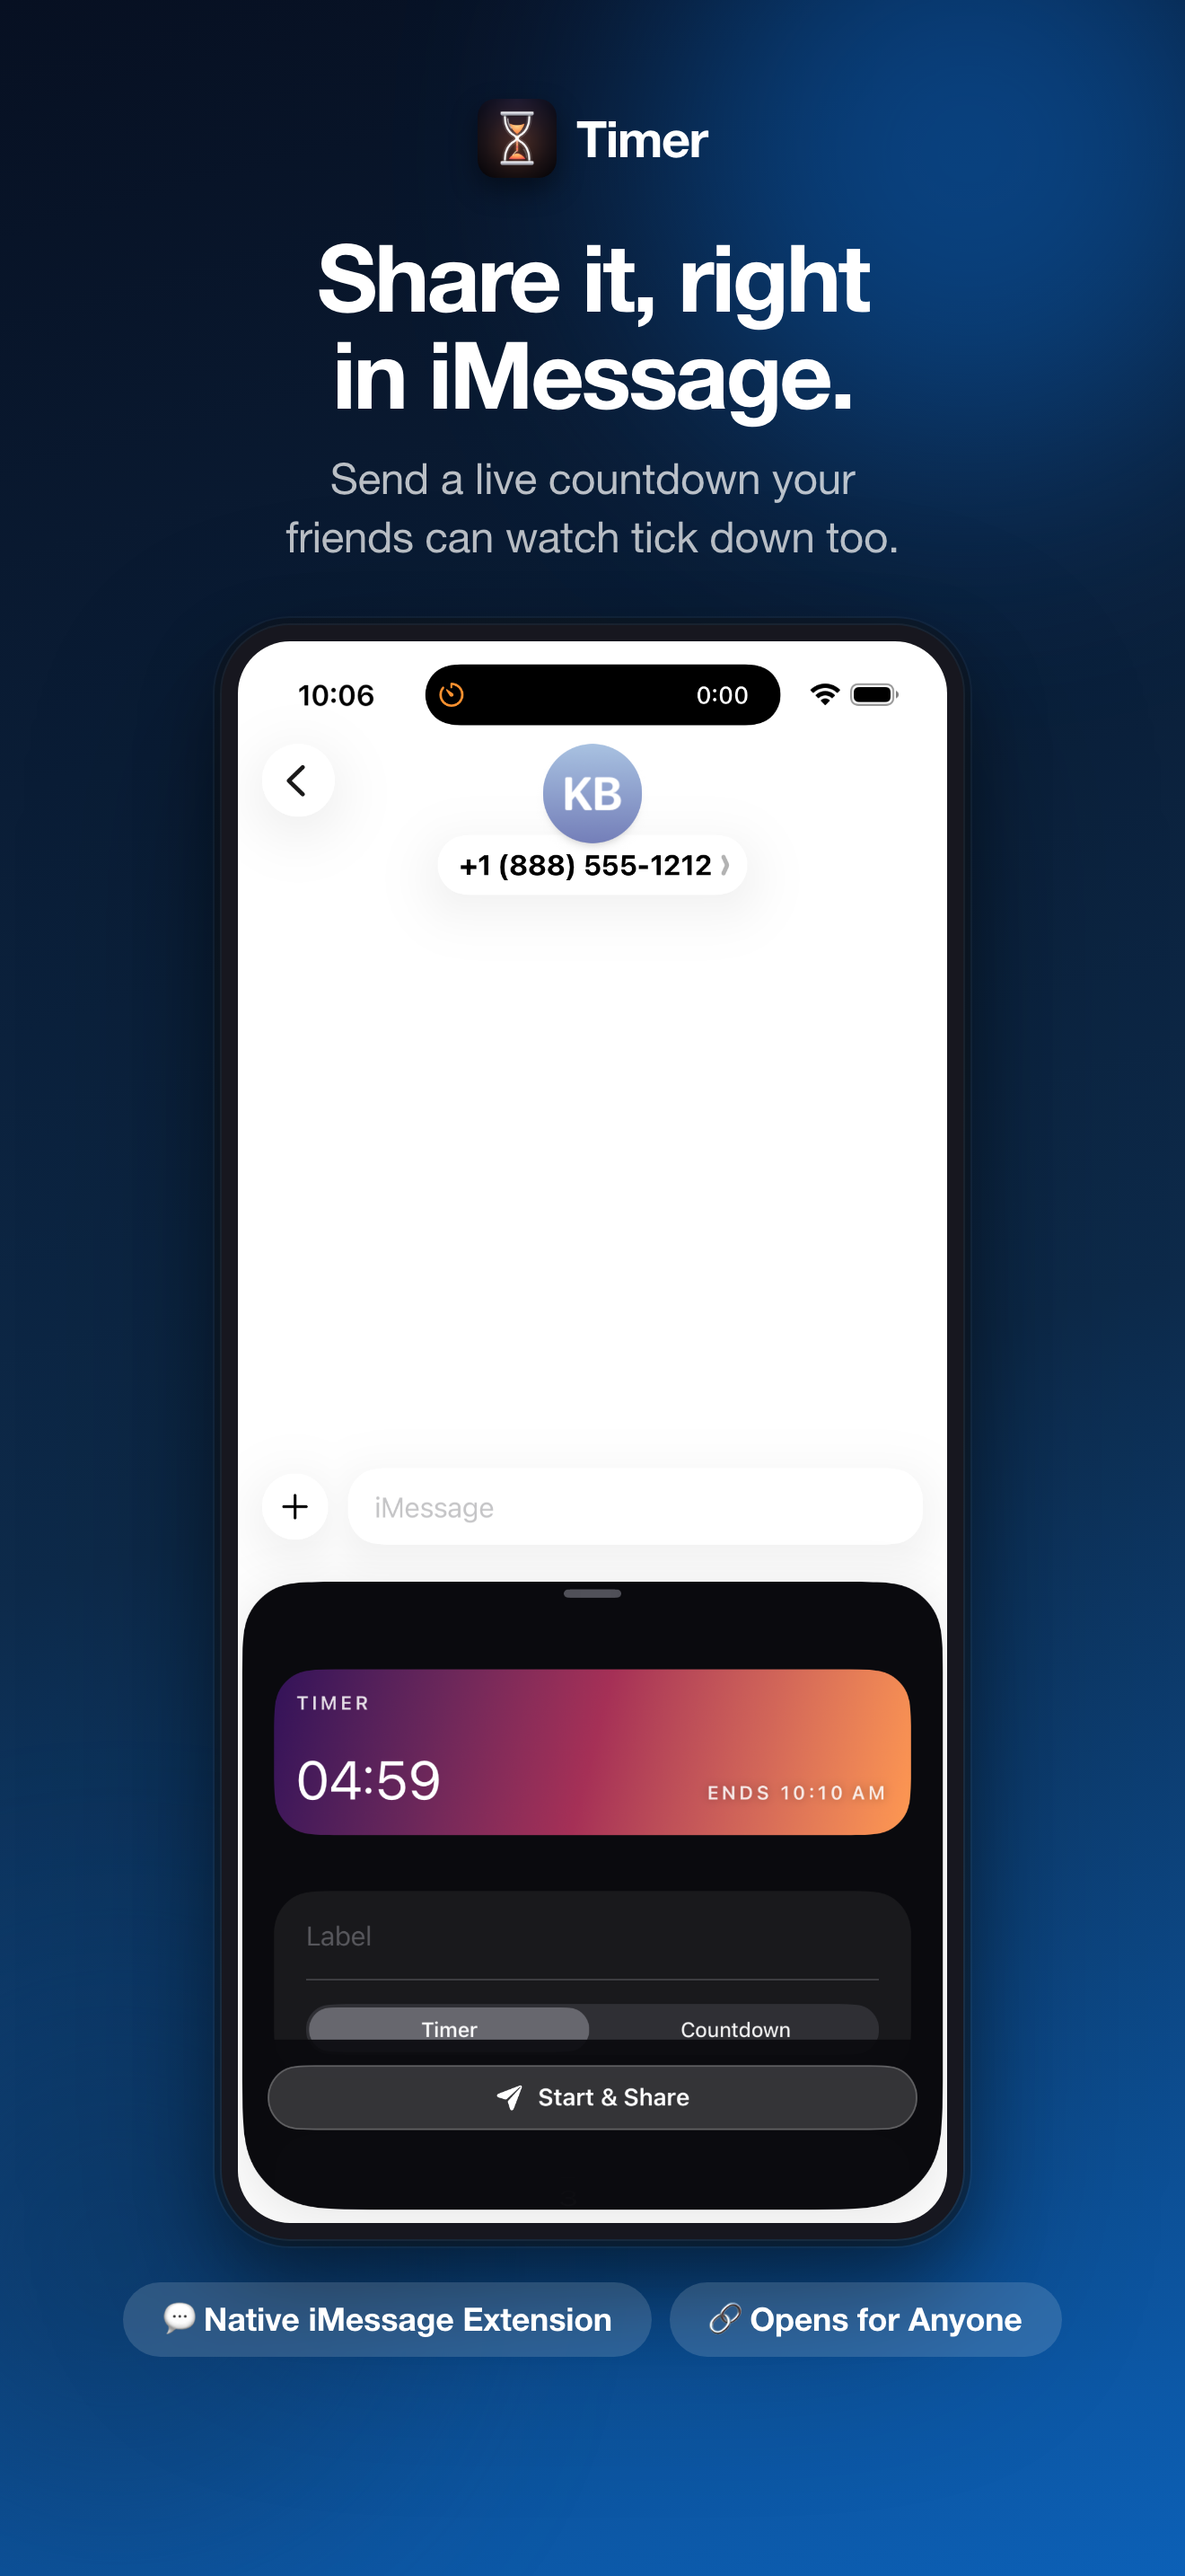
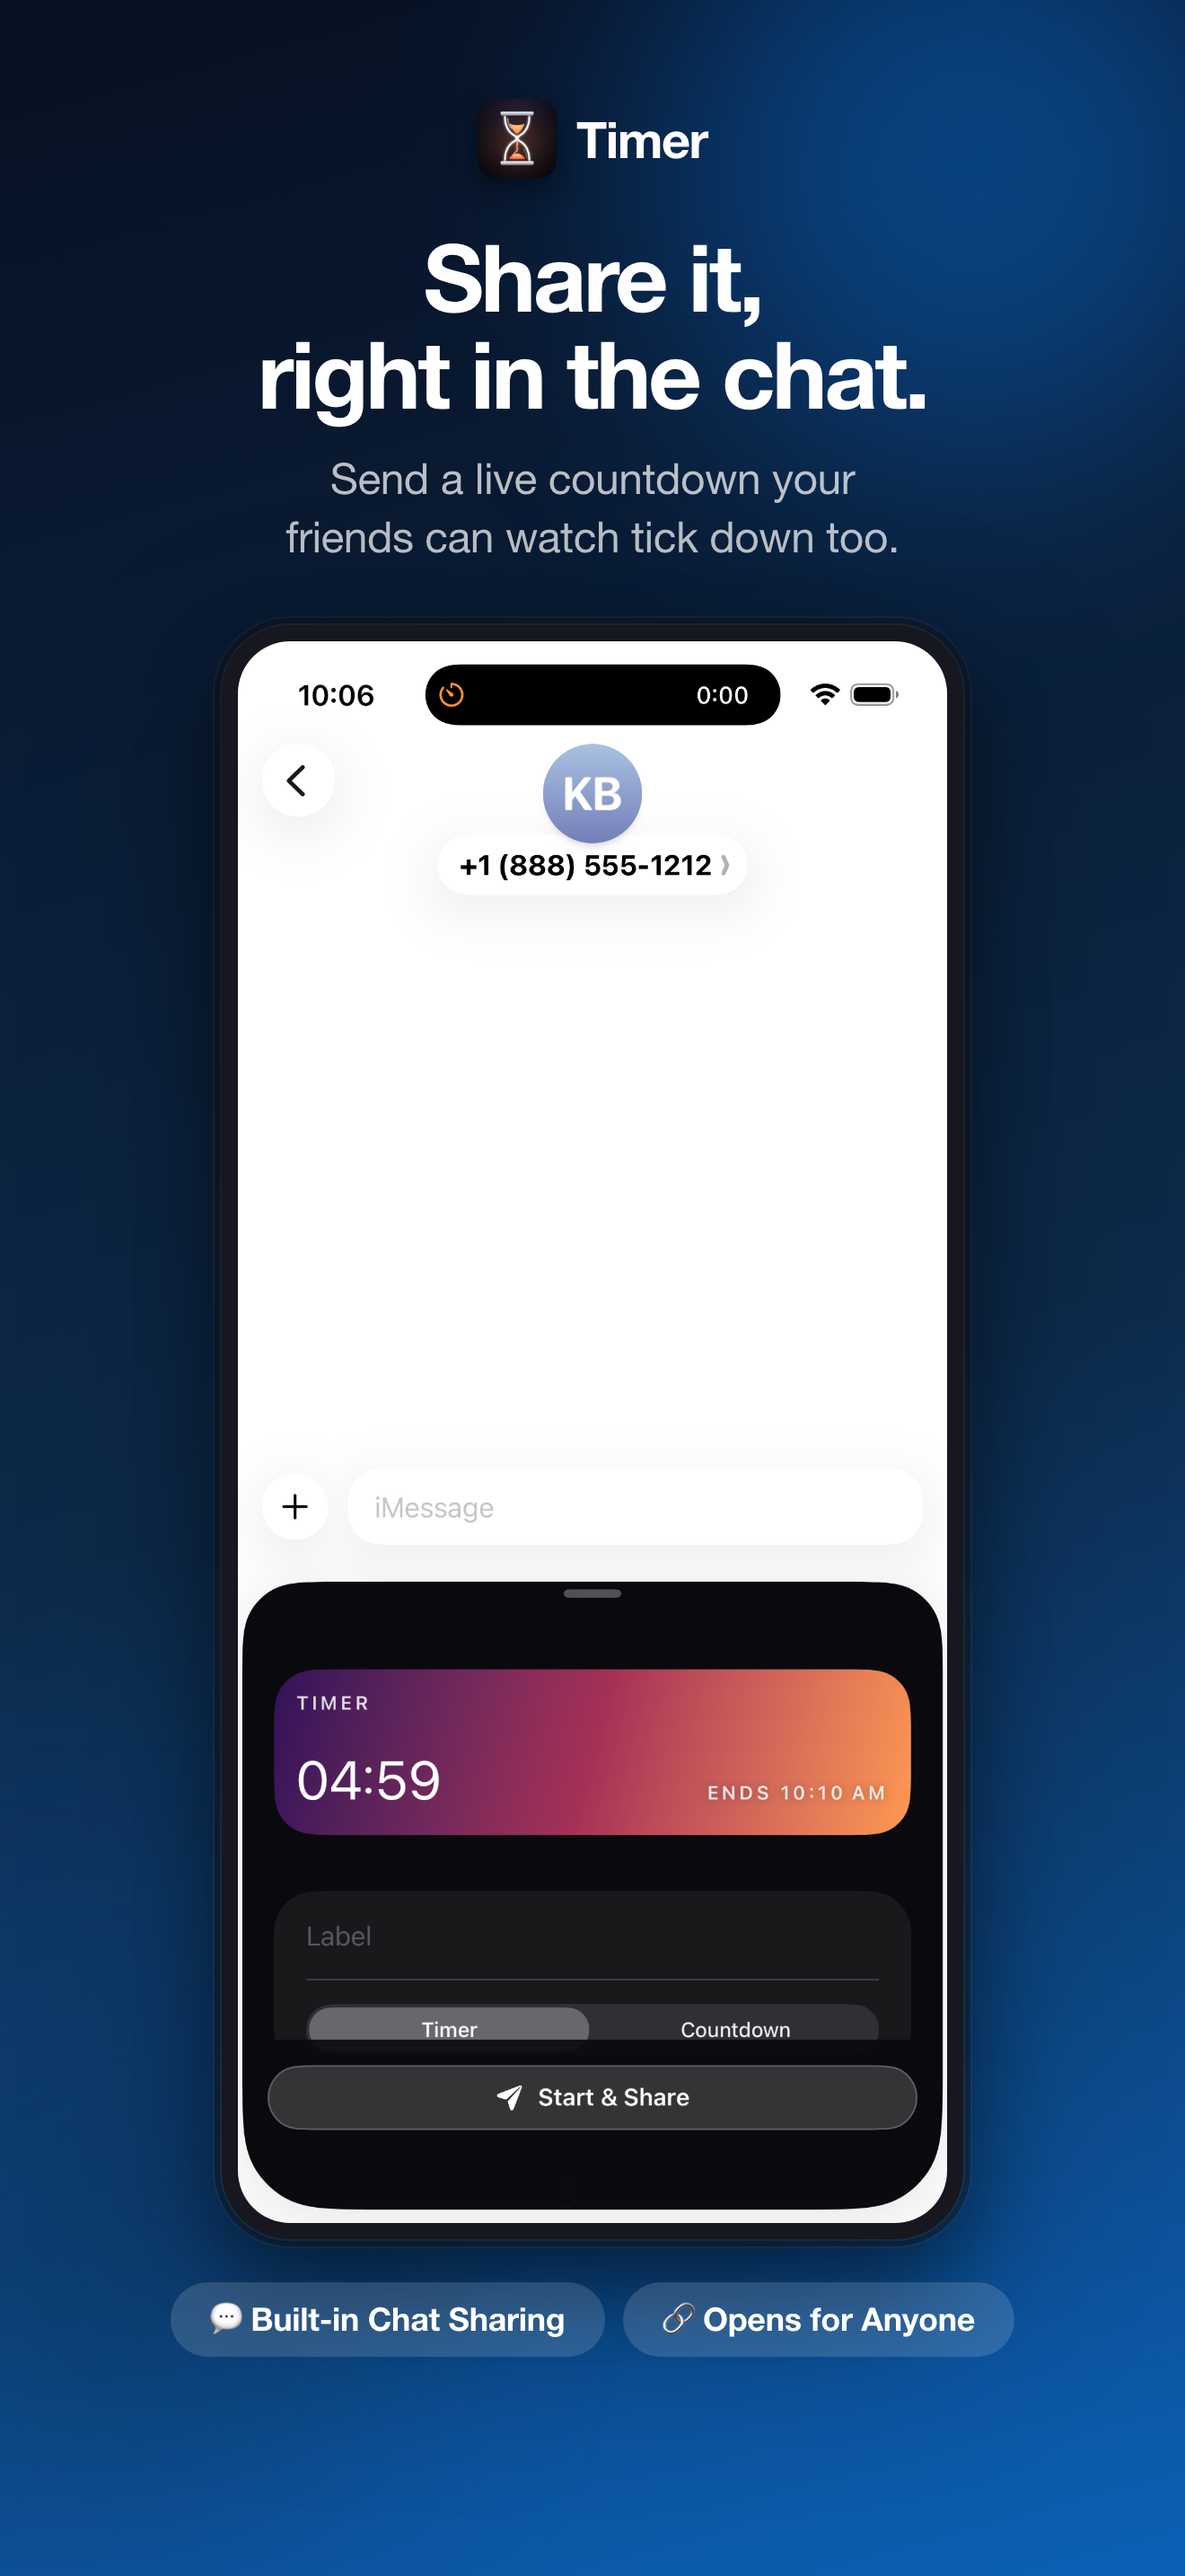
Update App Store metadata: subtitle, keywords, iMessage screenshot
Claude-Session: https://claude.ai/code/session_01DjkeF1H68ebyZYVRLKjRbM

diff --git a/sharedTimer/fastlane/screenshot_source/screenshots.html b/sharedTimer/fastlane/screenshot_source/screenshots.html
@@ -232,14 +232,14 @@
       <span class="logo-text">Timer</span>
     </div>
     <div class="headline">
-      <h1>Share it, right<br>in iMessage.</h1>
+      <h1>Share it,<br>right in the chat.</h1>
       <p>Send a live countdown your<br>friends can watch tick down too.</p>
     </div>
     <div class="phone-wrap">
-      <div class="phone"><div class="phone-screen"><img src="imessage-share.png" alt="Share in iMessage"></div></div>
+      <div class="phone"><div class="phone-screen"><img src="imessage-share.png" alt="Share a live countdown in Messages"></div></div>
     </div>
     <div class="pill-row">
-      <span class="pill">💬 Native iMessage Extension</span>
+      <span class="pill">💬 Built-in Chat Sharing</span>
       <span class="pill">🔗 Opens for Anyone</span>
     </div>
   </div>
